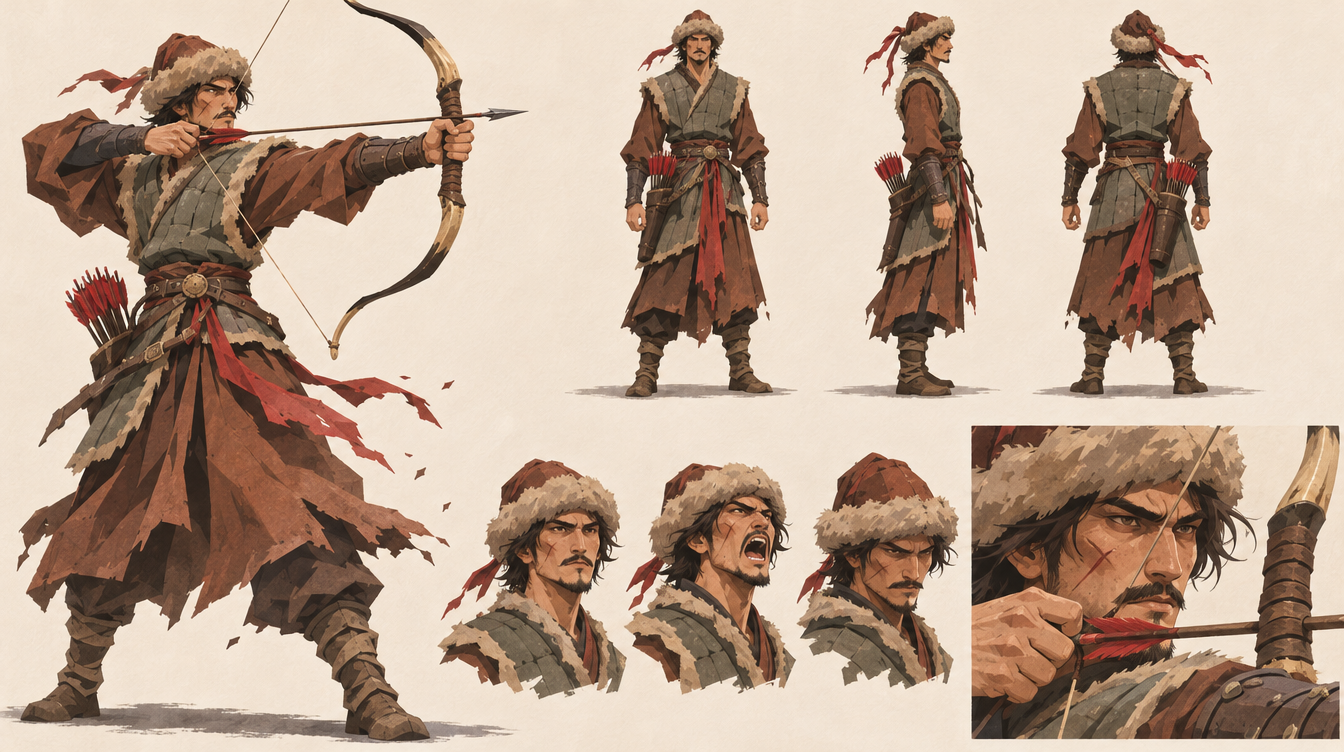
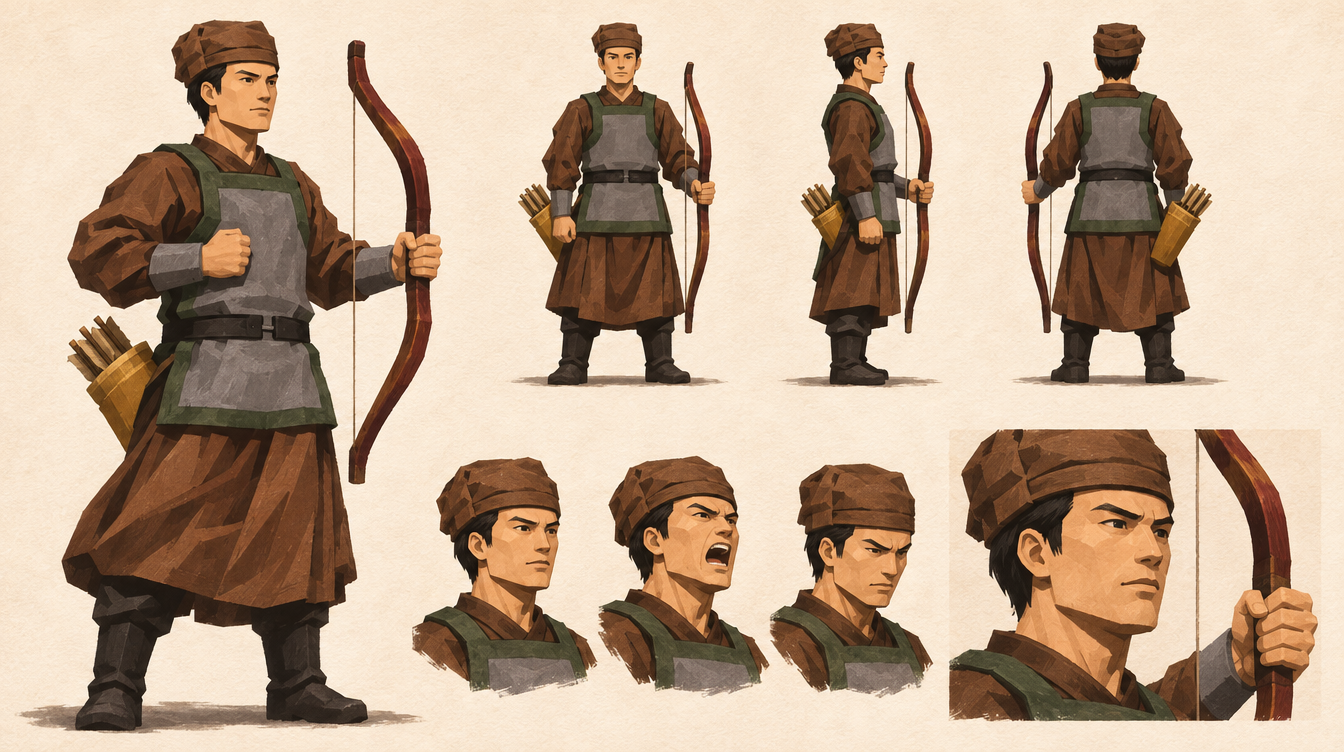
Sheet cung thủ làm lại theo sprite (bỏ bản sai kiểu du mục); prompt mọi đơn vị viết lại đúng theo sprite, bắt buộc đính kèm sprite
Claude-Session: https://claude.ai/code/session_01JLSNBEZAQYaaf5bHkUdgrp

diff --git a/docs/art/character-sheets.md b/docs/art/character-sheets.md
@@ -4,8 +4,12 @@ Dùng với Higgsfield `generate_image`, model `gpt_image_2_6`, **tỉ lệ 16:9
 Mỗi prompt = **khối BỐ CỤC** + **khối NHÂN VẬT** của đơn vị + **khối PHONG CÁCH** + **khối LOẠI TRỪ**, ghép thành một đoạn theo đúng thứ tự đó
 (model đọc phần đầu nặng hơn, nên bố cục và nhận dạng phải đứng trước).
 
+**BẮT BUỘC khi chạy:** đính kèm **sprite trong game** của đơn vị đó (`assets/units/...png`, phóng to nearest-neighbor trên nền trắng) làm ảnh tham chiếu,
+và mở đầu khối nhân vật bằng câu `redrawn faithfully from the reference pixel sprite, keep exactly its costume, colors and silhouette, add nothing foreign`.
+Lần chạy đầu chỉ dùng chữ mô tả, model tự thêm mũ lông, ria, cung sừng nên cung thủ thành lính du mục; đính kèm sprite là sửa được.
+Các khối nhân vật dưới đây **chỉ mô tả đúng những gì có trên sprite**, không thêm chi tiết.
+
 Gợi ý khi chạy:
-- Đính kèm **sprite trong game** của đơn vị đó (`assets/units/...png`) làm ảnh tham chiếu để giữ đúng đồng phục và màu.
 - Có thể đính kèm thêm **một** ảnh tham chiếu phong cách của mày, nhưng prompt dưới đây đã mô tả đủ phong cách bằng lời, không gọi tên nhân vật hay game nào.
 - Có sheet ưng ý rồi thì dùng chính sheet đó làm tham chiếu cho mọi khung hình cutscene của nhân vật, đó là cách giữ nhân vật nhất quán.
 
@@ -51,63 +55,63 @@ Cho **sinh vật / quân cưỡi** (kỵ binh, kỵ lợn rừng, xác ngựa): 
 
 ## Khối nhân vật cho từng đơn vị
 
-### Phe người (màu nhấn: đỏ thẫm)
+### Phe người
 
-**Dân quân**
+**Dân quân** (`human_militia.png`)
 ```
-a hardened peasant militiaman in his forties, weathered tanned skin, deep-set tired eyes, short stubble, black cloth cap, grey quilted padded vest over a long brown wool robe, rope belt, cloth wrapped shins and straw sandals, holding a long simple wooden spear with an iron leaf blade, stocky farmer's build with thick forearms, accent color: a faded red cloth tied around the spear,
-```
-
-**Bộ binh**
-```
-a veteran heavy infantryman in his thirties, square jaw, scar across the cheekbone, stern narrow eyes, steel helmet with a tall red horsehair plume and gilded brow guard, grey steel lamellar armor with red lacquered trim, layered shoulder plates, patterned gold sash at the waist, dark red under-robe, black boots, straight double-edged sword held low, broad-shouldered powerful build, accent color: crimson plume and trim,
+a medieval East Asian militia spearman, clean-shaven, black cloth cap, grey padded armored vest with tan trim and a black belt over dark long sleeves, long brown cotton robe, black boots, holding a long wooden spear with an iron blade diagonally across the body, accent color: tan trim,
 ```
 
-**Cung thủ**
+**Bộ binh** (`human_infantry.png`)
 ```
-a lean seasoned archer in his thirties, sharp watchful eyes, thin mustache, brown fur-lined hat, grey-green padded vest over a long brown robe, leather bracer on the bow arm, quiver of red-fletched arrows at the hip, drawing a recurve horn bow, wiry athletic build with long arms, accent color: red arrow fletching,
-```
-
-**Kỵ binh**
-```
-a proud cavalry banner-rider in his thirties, confident grin, straw conical hat tied under the chin, red quilted riding tunic with brass studs, carrying a tall blue war banner with a red emblem, curved saber at the belt, riding a muscular chestnut warhorse with simple leather tack and red tassels, accent color: red tunic and tassels,
+a medieval East Asian heavy infantryman, small mustache, steel helmet with a red plume and a gilded brow ornament, grey lamellar armor with brown trim and layered shoulder guards, dark red under-robe, yellow-and-black patterned sash at the waist, black boots, straight double-edged sword held across the body, accent color: red plume and dark red robe,
 ```
 
-**Thủy binh (trên bộ và trên thuyền: hai sheet, hoặc gộp)**
+**Cung thủ** (`human_archer.png`)
 ```
-a rugged river marine boatman in his late twenties, sun-darkened skin, cheerful but tough face, white cloth headband, sleeveless light hemp shirt, rolled-up dark trousers, coil of rope over the shoulder, woodcutter's axe in hand; in the close-up panel he stands in a narrow wooden river boat drawing a recurve bow, accent color: red headband tails,
-```
-
-### Phe Orc (màu nhấn: đỏ máu và xanh lục)
-
-**Orc phỉ (dân quân)**
-```
-a scrappy orc raider, green-olive skin, short lower tusks, heavy brow, battered iron skullcap helmet, single grey iron shoulder pauldron, leather wraps on arms and legs, round wooden shield with nail studs, long crude spear, lean wiry build, accent color: red war paint stripe across the eyes,
+a medieval East Asian foot archer, clean-shaven, short black hair, plain brown cloth cylindrical cap (not fur, no brim), grey padded armored vest with dark moss-green trim and a black belt over a long brown cotton robe with long sleeves, plain black boots, simple long wooden self bow with a dark red-brown stave, yellow-ochre leather quiver of arrows at the hip, accent color: yellow-ochre quiver,
 ```
 
-**Orc chiến binh**
+**Kỵ binh** (`human_cavalry.png`)
 ```
-a massive orc brute warrior, deep green skin, huge lower tusks, small fierce eyes under a heavy brow, spiked iron shoulder pauldron, thick leather chest strap, grey hide loincloth, iron chain around the waist, giant notched cleaver sword, enormous hunched muscular build with gigantic forearms, accent color: red-painted handprint on the chest,
-```
-
-**Orc cung thủ**
-```
-a gaunt orc hunter-archer, green skin, long pointed ears, narrow cunning eyes, grey hooded cloak, leather straps across the chest, quiver of black-feathered arrows on the back, short heavy bow, lean sinewy build, accent color: red bone beads on the hood,
+a medieval East Asian banner cavalryman, small round pale straw helmet-hat, red-orange quilted riding tunic with a red cape, holding a tall blue war banner with a red-orange emblem and a white tail ribbon, riding a chestnut-brown horse with simple dark tack, accent color: blue banner against red tunic,
 ```
 
-**Kỵ lợn rừng**
+**Thủy binh** (`human_marine.png`, `human_marineboat.png`)
 ```
-an orc boar-rider, green skin, horned iron helmet, round shield painted with a red skull emblem, barbed spear, riding a huge dark bristled war boar with long curved tusks and iron-studded leather harness, accent color: red skull emblem,
+a medieval East Asian river boatman soldier, clean-shaven, hair in a top bun with a white cloth headband with loose tails, light beige wrap-front shirt with rolled sleeves, grey cloth sash, dark rolled-up trousers, black shoes, coil of rope over the shoulder, woodcutter's axe in hand; in the close-up panel he stands in a narrow wooden rowboat drawing a long wooden bow, accent color: white headband,
 ```
 
-**Goblin**
+### Phe Orc
+
+**Orc phỉ** (`orc_militia.png`)
 ```
-a small sly forest goblin skirmisher, bright green skin, oversized pointed ears, sharp yellow eyes, crooked grin, ragged hood and cloak made of leaves, moss and bark for forest camouflage, crouching ambush pose, curved dagger in one hand and a small hand axe in the other, wiry tiny build, accent color: bright leaf green against dark bark brown,
+a green-skinned orc raider with small tusks, plain iron skullcap helmet, single grey iron shoulder pauldron, brown leather tunic with straps, cloth-wrapped legs and arms, round wooden shield with an iron boss, long spear with a broad iron blade, lean build, accent color: iron grey,
+```
+
+**Orc chiến binh** (`orc_infantry.png`)
+```
+a huge hulking green-skinned orc brute with big lower tusks, spiked grey iron shoulder pauldron on one shoulder, diagonal leather chest strap, grey cloth loincloth with a belt, bare muscular arms and legs with cloth wraps, giant notched cleaver sword, accent color: steel grey cleaver,
+```
+
+**Orc cung thủ** (`orc_archer.png`)
+```
+a lean green-skinned orc archer with a long ear and small tusks, grey cloth hood and wrapped grey tunic, leather straps across the chest, orange-brown leather quiver on the back, short wooden bow, cloth-wrapped legs, accent color: orange-brown quiver,
+```
+
+**Kỵ lợn rừng** (`orc_cavalry.png`)
+```
+an orc rider with a horned dark iron helmet, round shield painted red with a white fanged emblem, long spear with a broad blade, riding a big dark-brown bristled war boar with pink snout and curved white tusks, accent color: red shield,
+```
+
+**Goblin** (`orc_goblin.png`)
+```
+a small crouching forest goblin with bright green skin and big pointed ears, hood and cloak covered in leaves and moss, brown leather belt and pouch, holding a curved dagger and a small hand axe, wiry build, accent color: leaf green,
 ```
 
 ### Âm binh (màu nhấn: lửa ma xanh lục nhạt trong hốc mắt)
 
-Âm binh **giữ nguyên đồng phục phe gốc**. Lấy khối nhân vật của đơn vị sống tương ứng ở trên, rồi **thêm ngay sau nó** đoạn này:
+Âm binh **giữ nguyên đồng phục phe gốc**. Đính kèm sprite âm binh (`undead_human_*.png` / `undead_orc_*.png`) hoặc sprite lúc còn sống, lấy khối nhân vật của đơn vị sống tương ứng ở trên, rồi **thêm ngay sau nó** đoạn này:
 ```
 now risen as an undead warrior: the same uniform, colors and accessories kept but torn, faded, dusty and rusted, flesh replaced by bare bone and dried grey-green skin where visible, empty eye sockets glowing with a faint pale green ghost flame, slow heavy menacing stance, accent color: pale green ghost light,
 ```
@@ -121,8 +125,10 @@ an eerie East Asian dark-taoist necromancer commander, tall gaunt figure in a lo
 
 ---
 
-## Ví dụ ghép hoàn chỉnh: Bộ binh phe người
+## Ví dụ đã chạy và đạt: Cung thủ người (kèm sprite `human_archer.png`)
+
+Kết quả: `docs/art/sheets/archer_human.png`, bản âm binh: `docs/art/sheets/archer_undead.png`.
 
 ```
-Character model sheet, one large heroic full-body view on the left, a row of three smaller full-body views on the right showing front, side profile and back, three head-and-shoulders expression studies (neutral, battle cry, grim) and one close-up of the face and weapon detail, identical original character in every view, single character only, off-white paper background with a soft ground shadow under the feet, professional character sheet presentation, a veteran heavy infantryman in his thirties, square jaw, scar across the cheekbone, stern narrow eyes, steel helmet with a tall red horsehair plume and gilded brow guard, grey steel lamellar armor with red lacquered trim, layered shoulder plates, patterned gold sash at the waist, dark red under-robe, black boots, straight double-edged sword held low, broad-shouldered powerful build, accent color: crimson plume and trim, stylized painterly 2D concept art, flat color blocks with visible dry gouache brush texture, shape-driven rendering with almost no outlines, heroic exaggerated proportions, hard-edged cel shadows in two to three values with warm bounce color in the shadows, limited desaturated palette with one strong accent color, torn frayed cloth edges with small flying fragments, big simple cloth folds, mature angular face with natural skin marks, strong readable silhouette, even neutral studio lighting from the upper left, high-end game cinematic character art, 4K, sharp, original character, does not resemble any existing character or real person, no text, no labels, no watermark, no logos, no frame borders, no background scenery, no extra characters, no duplicate figures in the hero view, no cute proportions, no babyface, no distorted hands, no extra fingers
+Character model sheet of the archer shown in the reference pixel sprite, redrawn faithfully in a new painterly style: keep EXACTLY his costume, colors and silhouette from the reference and add nothing foreign. One large heroic full-body view on the left, a row of three smaller full-body views on the right showing front, side profile and back, three head-and-shoulders expression studies (neutral, battle cry, grim) and one close-up of the face and weapon detail, identical original character in every view, single character only, off-white paper background with a soft ground shadow under the feet, professional character sheet presentation. Character: a medieval East Asian foot archer in his thirties, clean-shaven face, short black hair, a plain brown cloth cylindrical cap (not fur, no brim, no ear flaps), a grey padded armored vest with dark moss-green trim edges and a black belt, worn over a long brown cotton robe with long sleeves, plain black boots, a simple long wooden self bow with a dark red-brown stave, a yellow-ochre leather quiver of arrows at the hip, athletic build. Stylized painterly 2D concept art, flat color blocks with visible dry gouache brush texture, shape-driven rendering with almost no outlines, hard-edged cel shadows in two to three values with warm bounce color, limited palette of brown, grey and moss green with a yellow-ochre accent, big simple cloth folds, mature angular face, strong readable silhouette, even neutral studio lighting, high-end game cinematic character art, sharp. Original character, not Mongolian, not nomadic, no fur hat, no mustache, no recurve horn bow, no text, no labels, no watermark, no logos, no frame borders, no background scenery, no extra characters, no babyface, no distorted hands, no extra fingers
 ```
